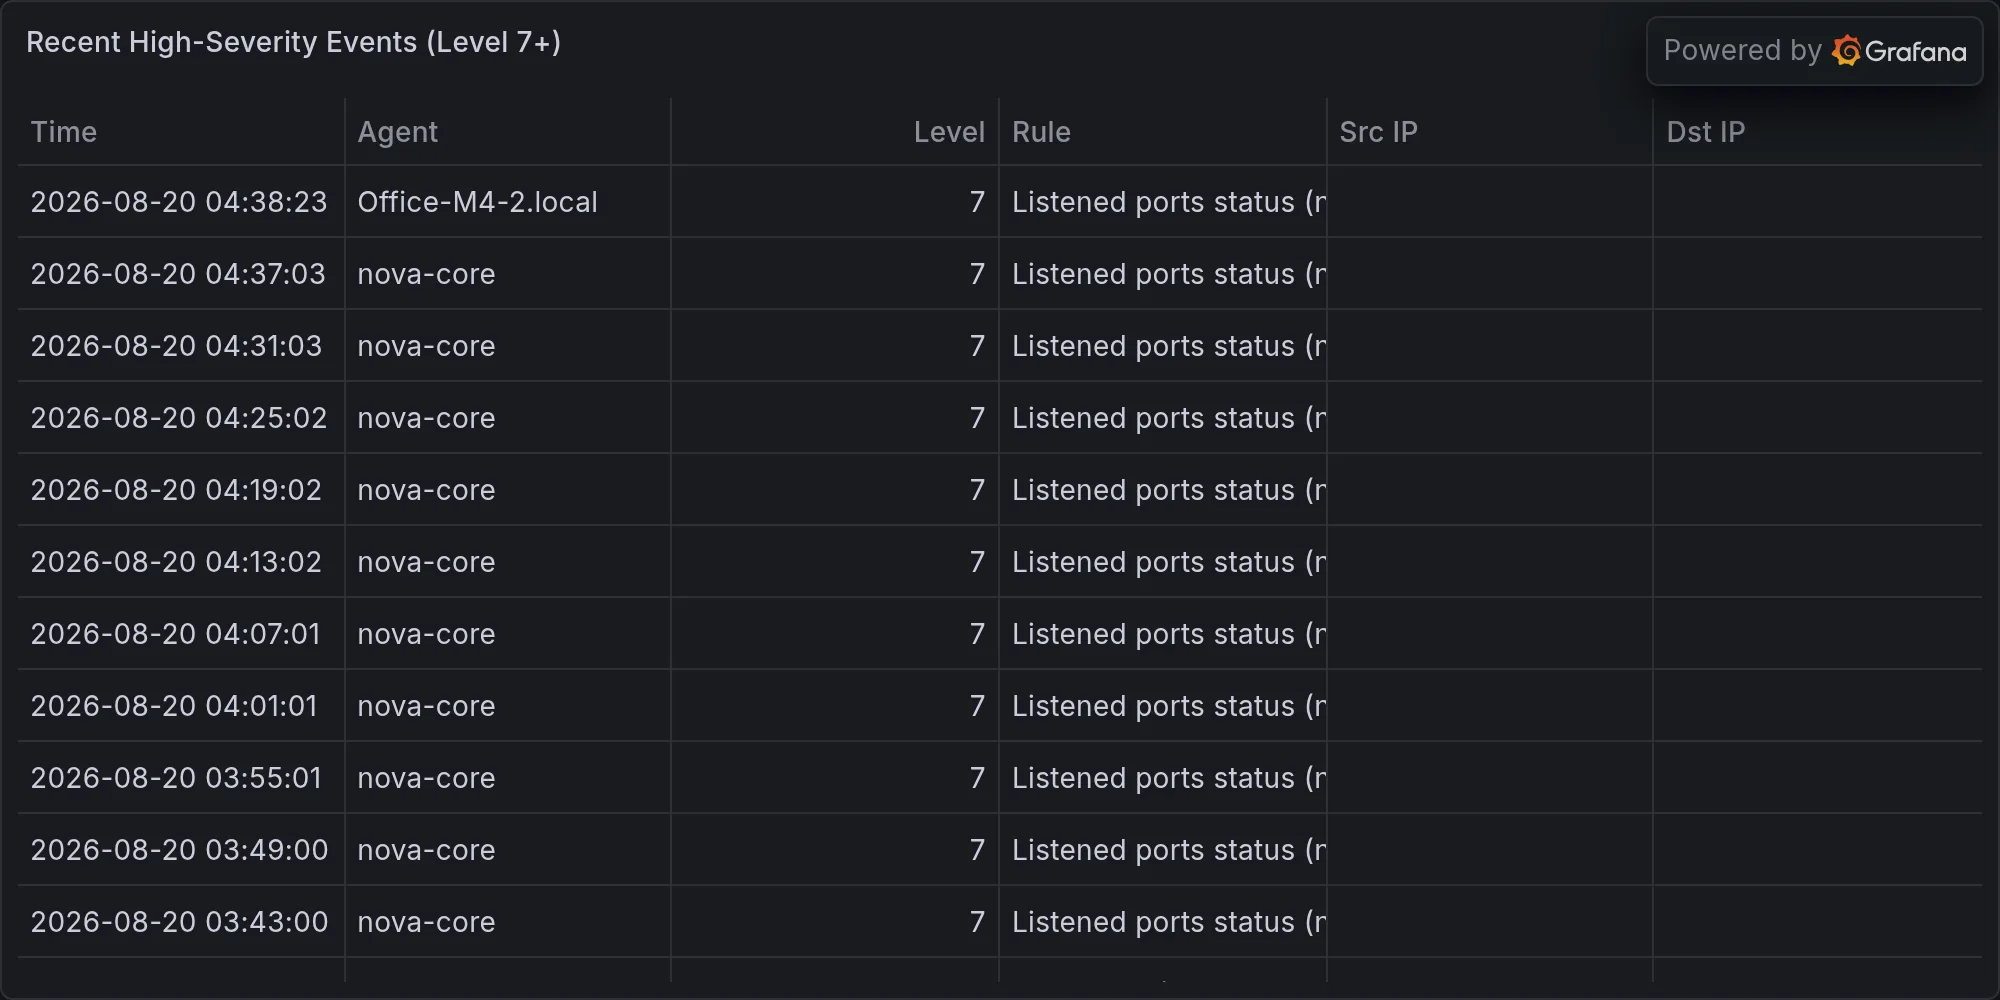
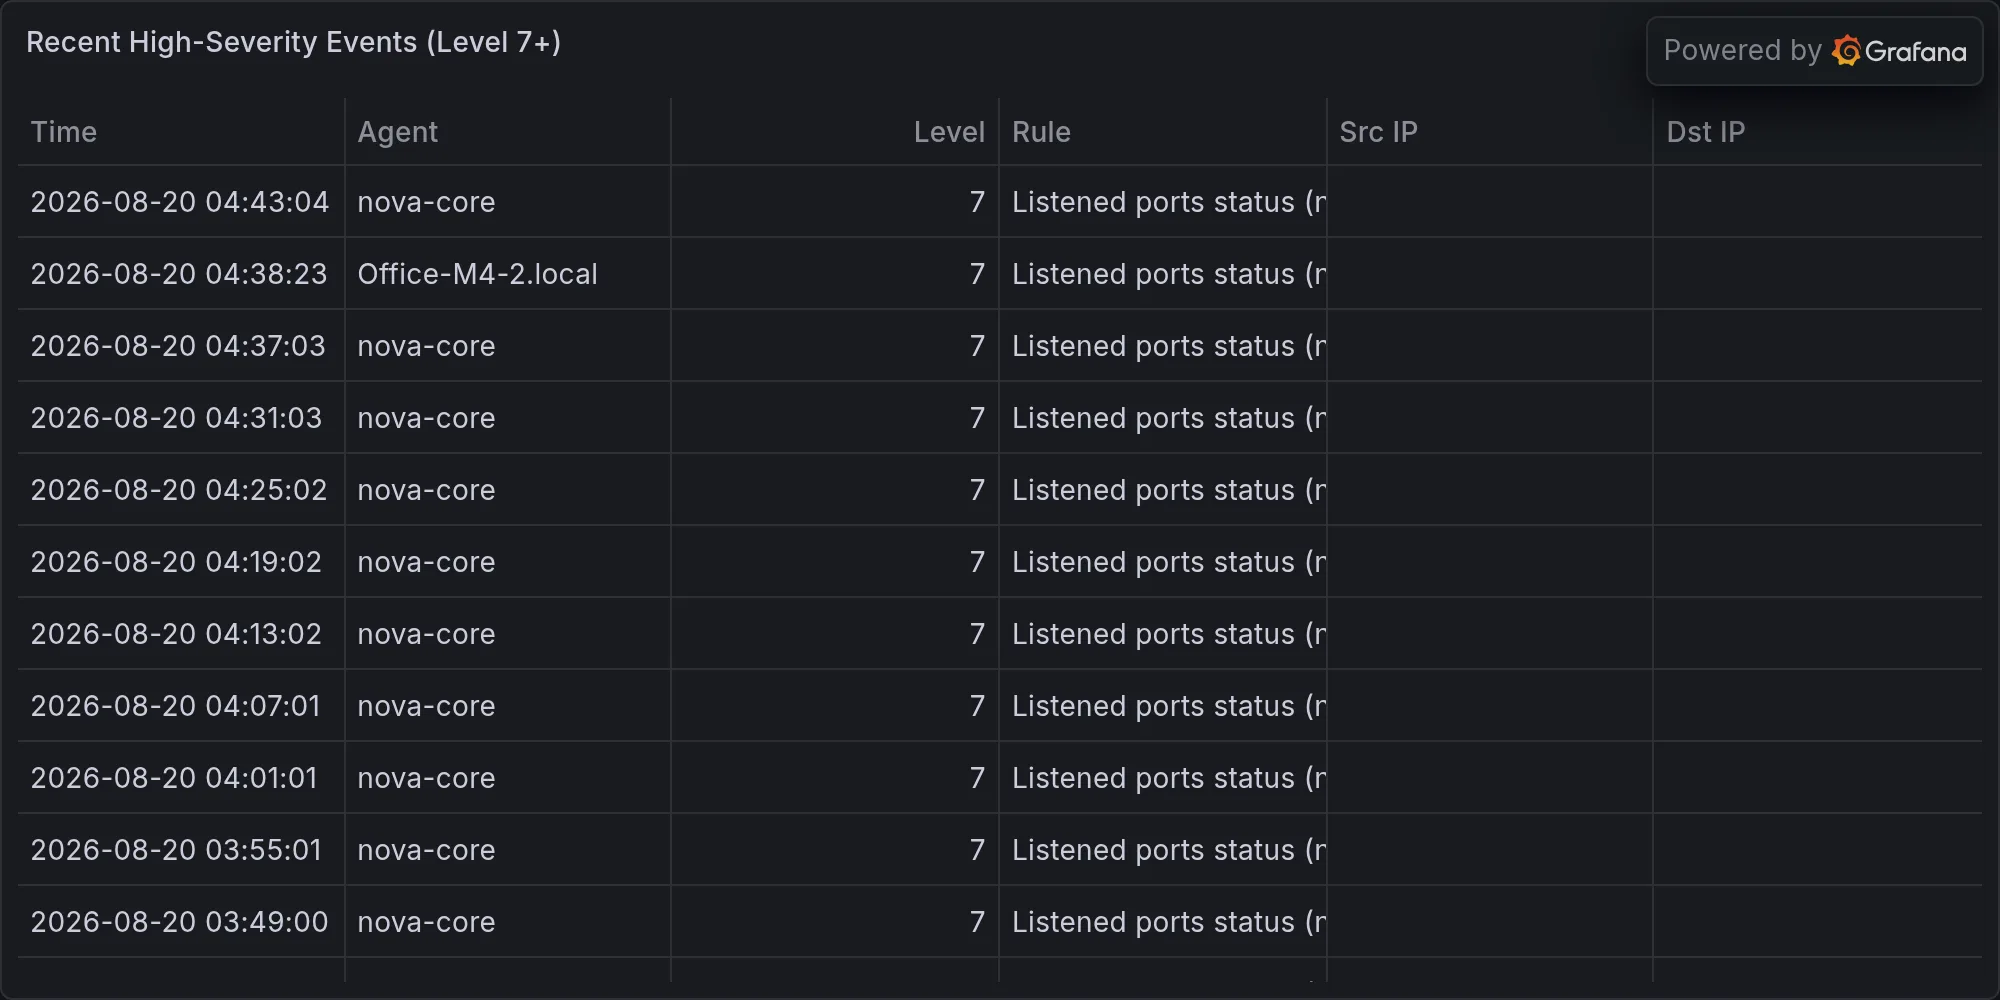
security: 2026-08-20 — US Government Warns of AI-Powered Attacks on Sieme

diff --git a/content/operations/2026-08-20-us-government-warns-of-ai-powered-attacks-on-siemens-industr.md b/content/operations/2026-08-20-us-government-warns-of-ai-powered-attacks-on-siemens-industr.md
@@ -1,0 +1,56 @@
+---
+title: "🛡 US Government Warns of AI-Powered Attacks on Siemens Industrial Controllers in Critical Infrastructure"
+date: 2026-08-20T04:44:28-07:00
+draft: false
+categories: ["operations"]
+tags: ["breaking-alert", "news4hackers-ai-powered-hackers-exploit-", "security"]
+description: "BREAKING: news4hackers: AI-Powered Hackers Exploit Siemens PLCs in Critical Infrastructure"
+cover:
+  image: "/images/operations/2026-08-20-us-government-warns-of-ai-powered-attacks-on-siemens-industr.webp"
+  alt: "US Government Warns of AI-Powered Attacks on Siemens Industrial Controllers in Critical Infrastructure"
+  relative: false
+---
+
+*Published Thursday, August 20, 2026 at 04:44 AM PT*
+
+![US Government Warns of AI-Powered Attacks on Siemens Industrial Controllers in Critical Infrastructure](/images/operations/2026-08-20-us-government-warns-of-ai-powered-attacks-on-siemens-industr.webp)
+
+**BLUF:** Multiple US government agencies have issued a joint cybersecurity advisory warning of active AI-powered exploitation of Siemens programmable logic controllers (PLCs) targeting critical infrastructure sectors. Organizations operating Siemens PLCs should immediately review access controls, network segmentation, and enable logging; detailed advisory contains technical IOCs and mitigation steps.
+
+**DETAILS:**
+
+- US government agencies (specific agencies not enumerated in available advisory summary) issued joint cybersecurity alert regarding AI-enabled threat actors actively targeting Siemens PLC devices
+- Attack vector leverages AI capabilities to identify and exploit Siemens controller vulnerabilities; technical details and specific PLC model/firmware versions under attack listed in full advisory
+- Confirmed targeting of critical infrastructure sectors in the United States; scope of compromised assets and affected organizations remains unconfirmed in public summaries
+- Multiple security vendors (BleepingComputer, SecurityWeek, Help Net Security) independently corroborated the advisory, indicating cross-vendor validation
+- Advisory reportedly includes technical indicators of compromise (IOCs) and vendor-specific mitigation recommendations
+
+**IMPACT:**
+
+- Critical infrastructure operators using Siemens automation and control systems face immediate elevated risk
+- Potential operational technology (OT) environment compromise could enable lateral movement toward SCADA/ICS systems, process disruption, or data exfiltration
+- US-based critical infrastructure sectors most directly affected; global Siemens PLC deployments may face downstream risk from attack methodology
+
+**RECOMMENDED ACTIONS:**
+
+1. Locate and inventory all Siemens PLC deployments; cross-reference with advisory for affected model/firmware combinations
+2. Review firewall rules and network ACLs restricting PLC access; ensure PLCs are segmented from corporate networks and internet-facing systems
+3. Enable comprehensive logging and alerting on PLC authentication, configuration changes, and network communications
+4. Contact Siemens and your CISO to obtain the full joint advisory and technical IOCs for threat hunting
+5. Review recent PLC access logs for anomalous login attempts or unauthenticated connections
+
+**SOURCES:**
+
+- news4hackers (initial alert aggregation)
+- BleepingComputer (independent corroboration)
+- SecurityWeek (technical details / recommendations)
+- Help Net Security (US agency advisory summary)
+- US government joint cybersecurity advisory (referenced by all outlets; full advisory text not included in available summaries)
+
+**NOTE — Uncertainty flag:** Public summaries do not enumerate specific US agencies, exact Siemens PLC model numbers, or current compromise count. Monitor CISA.gov and Siemens ProductCERT for full advisory release.
+
+---
+
+**Recent high-severity events at publish time:**
+
+![Recent high-severity events](/images/operations/2026-08-20-breaking-alert-posture.webp)
